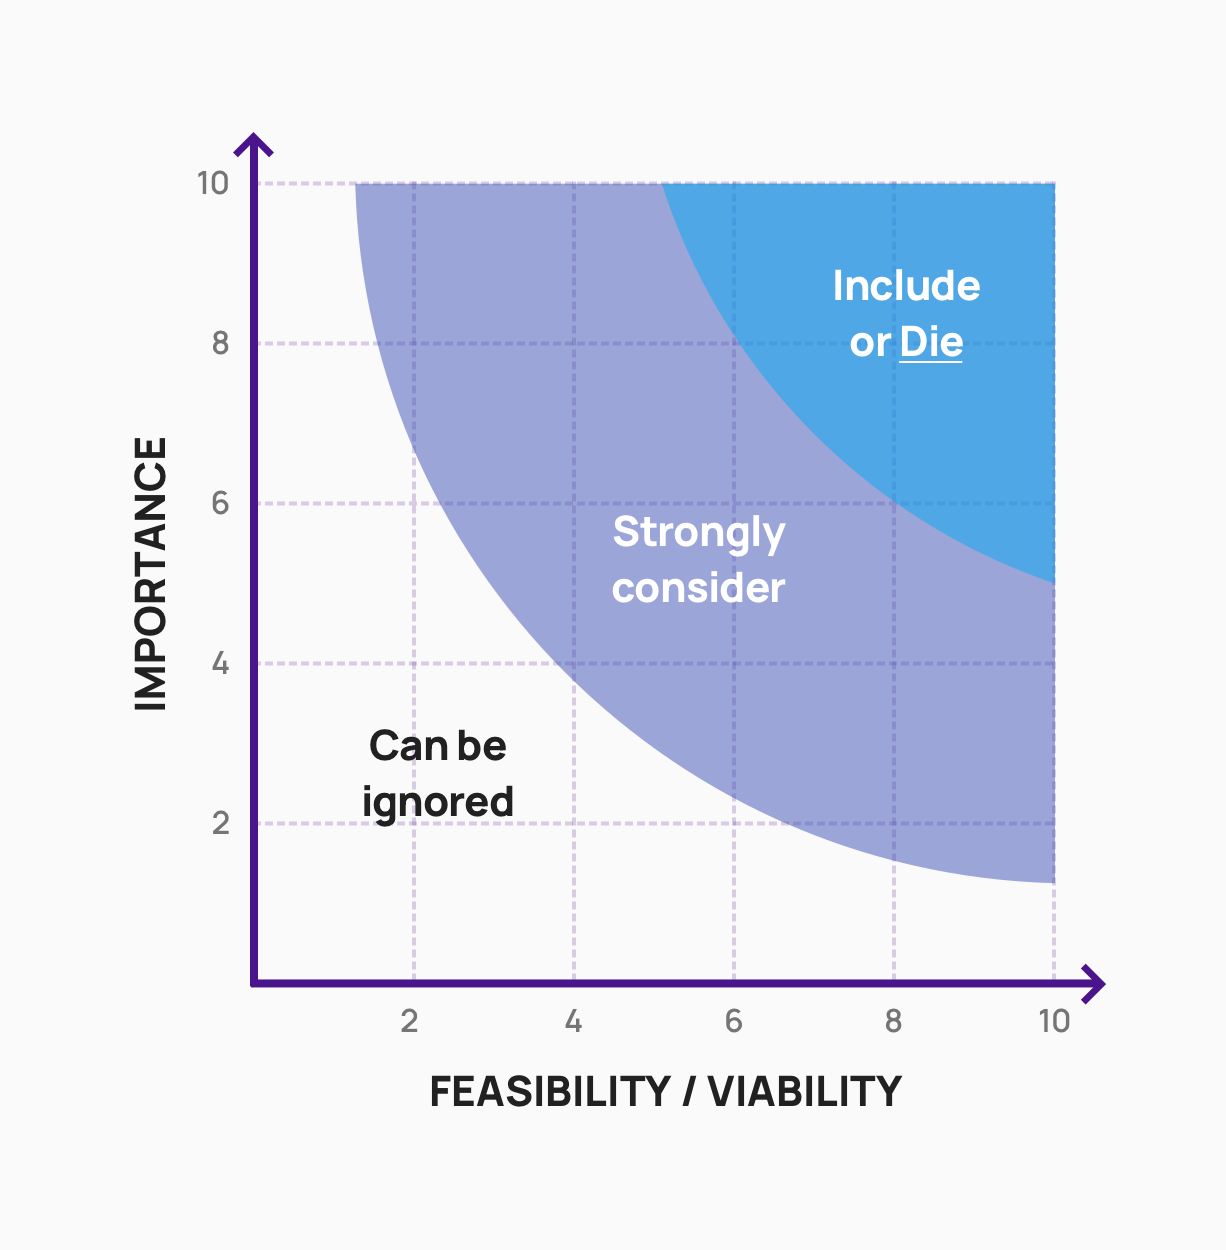
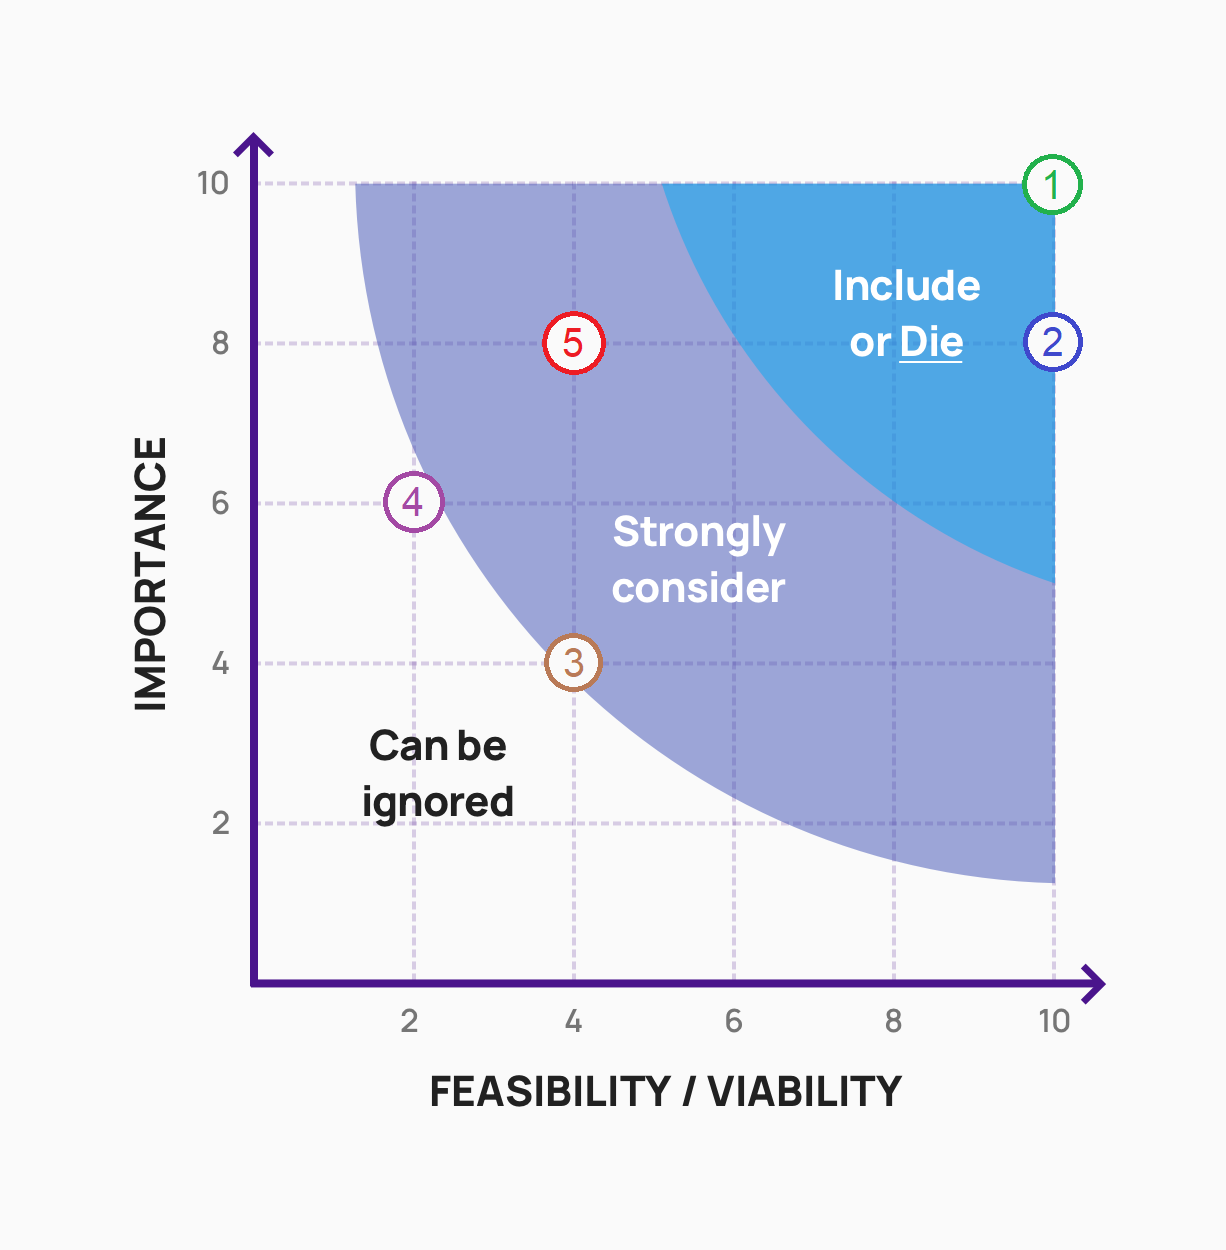
Strategy UX plane fleshed out

diff --git a/README.md b/README.md
@@ -4,9 +4,10 @@
 
 - [UX](#ux)
   - [Strategy](#strategy)
+    - [Business Goals](#business-goals)
+    - [User Goals](#user-goals)
     - [User Demographic](#user-demographic)
-    - [External User's Goals](#external-users-goals)
-    - [Site Owner's Goals](#site-owners-goals)
+    - [Competitor Research](#competitor-research)
     - [Prioritization Grid](#prioritization-grid)
   - [Scope](#scope)
   - [Structure](#structure)
@@ -20,6 +21,18 @@
 
 ### Strategy
 
+#### Business Goals
+
+The purpose of the business, Wanderlust, is to provide customers with package holidays.
+
+1. To advertise their package holiday products.
+2. To allow customers to purchase them.
+
+#### User Goals
+
+1. To find a package holiday offered by Wanderlust.
+2. To purchase a package holiday through the website.
+
 #### User Demographic
 
 The target users of this website are new or existing customers who enjoy travel and are looking for a destination for their next trip.
@@ -30,28 +43,62 @@ The target users of this website are new or existing customers who enjoy travel 
 - Demographic:
   - Age 20 - 40
   - UK residents
-  - Enjoys travel
   - Affluent
 - Pyschographic:
-  - Lifestyles:
-  - Personality/Attitudes:
-    - Adventurous
-  - Values:
+  - Adventurous
 
-#### External User's Goals
+#### Competitor Research
 
-1. Find the best holiday destination for their needs.
+The following competitor websites will be researched to consider their design choices when offering package holidays:
 
-#### Site Owner's Goals
+- Expedia
+- TUI
+- Jet2Holidays
 
-1. Get users to choose a travel package from this site and/or from its sponsors.
+##### Expedia
+
+Expedia's design, under the "Packages" tab, features a prominent form at the top of the website that requires the user's desired departure and arrival destinations, leaving and returning dates, and number of rooms/guests. A prominent "Search" button initiates the search.
+
+Below this is a list of popular holiday destinations that the user can tap to search holidays with one gesture.
+
+The results are shown as a paged list of cards with a photo, title, rating and price.
+
+Tapping on a result takes the user to a page where they can see more details about the hotel, including local amenities, attractions, and a Google Maps view of the area. From here they can choose a room and go on to book and pay.
+
+##### TUI
+
+TUI's design begins on a selected "Package Holidays" tab. Under this is a prominent form that require's the user's desired departure and arrival destinations, leaving date, desired nights and number of rooms/guests. A prominent "Search" button initiates the search.
+
+Below this is a list of deals based on location, holiday type, or dates. Users can search a list of packages matching these criteria with one gesture.
+
+The results are shown as a list of cards with a photo, title, link to reviews, price, and more details about the hotel and flights.
+
+Tapping on a result takes the user to a page where they can see more details about the hotel, including amenities, attractions, and a Google Maps view of the area. From here they can choose the customize certain details, then go on to book and pay.
+
+##### Jet2Holidays
+
+Jet2Holidays's design features a prominent form at the top of the website that requires the user's desired departure and arrival destinations, leaving date, desired nights and number of rooms/guests. A prominent "Find my holiday" button initiates the search.
+
+Below this is a list of popular holiday destinations that the user can tap to search holidays with one gesture.
+
+The results are shown as a paged list of cards with a photo, title, rating, price and more details about the hotel and flights.
+
+Tapping on a result takes the user to a page where they can see more details about the hotel, including local amenities, attractions, and a Google Maps view of the area. From here they can choose to go on to book and pay.
+
+##### Conclusion
+
+It is clear from looking at competitors' websites that they have a very similar design. This leads me to believe that by trial and error the have converged on a similar design, and that this is what users will expect when they are trying various websites to choose a holiday. Therefore it would be wise to imitate this design.
 
 #### Prioritization Grid
 
-| Opportunity/Problem | Importance | Viability/Feasability |
-|---------------------|------------|-----------------------|
-|                     |            |                       |
-|                     | **Total**  | **Total**             |
+| Number | Opportunity/Problem                                                                   | Importance | Viability/Feasibility |
+| ------ | ------------------------------------------------------------------------------------- | ---------- | --------------------- |
+| 1      | Allow user to choose from one of a set of travel packages                             | 10         | 10                    |
+| 2      | Provide a user interface that is similar to what is provided by competitors' websites | 8          | 10                    |
+| 3      | Provide a user interface which is a display of a 3D spinning globe with city markers  | 4          | 4                     |
+| 4      | Provide registration and login functions                                              | 6          | 2                     |
+| 5      | Allow purchasing through the website                                                  | 8          | 4                     |
+|        |                                                                                       | **36**     | **30**                |
 
 <details>
 <summary>Prioritization grid</summary>
@@ -60,13 +107,25 @@ The target users of this website are new or existing customers who enjoy travel 
 
 </details>
 
+<br>
+
+[↑ Back to top](#wanderlust)
+
 ### Scope
+
+[↑ Back to top](#wanderlust)
 
 ### Structure
 
+[↑ Back to top](#wanderlust)
+
 ### Skeleton
 
+[↑ Back to top](#wanderlust)
+
 ### Surface
+
+[↑ Back to top](#wanderlust)
 
 #### Features
 
